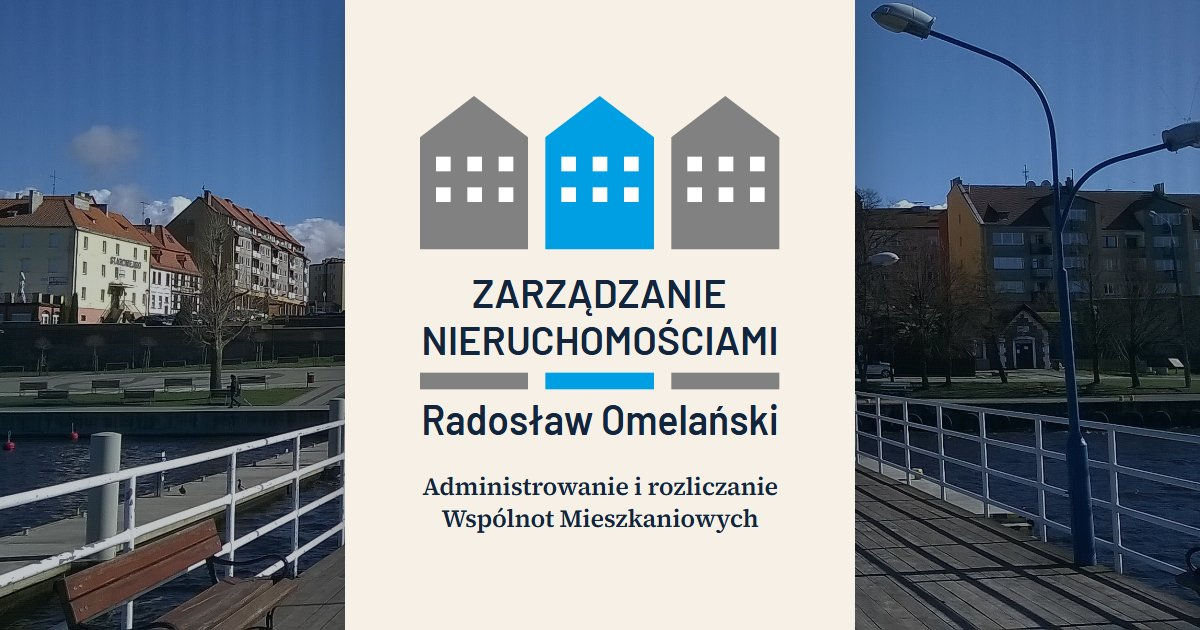
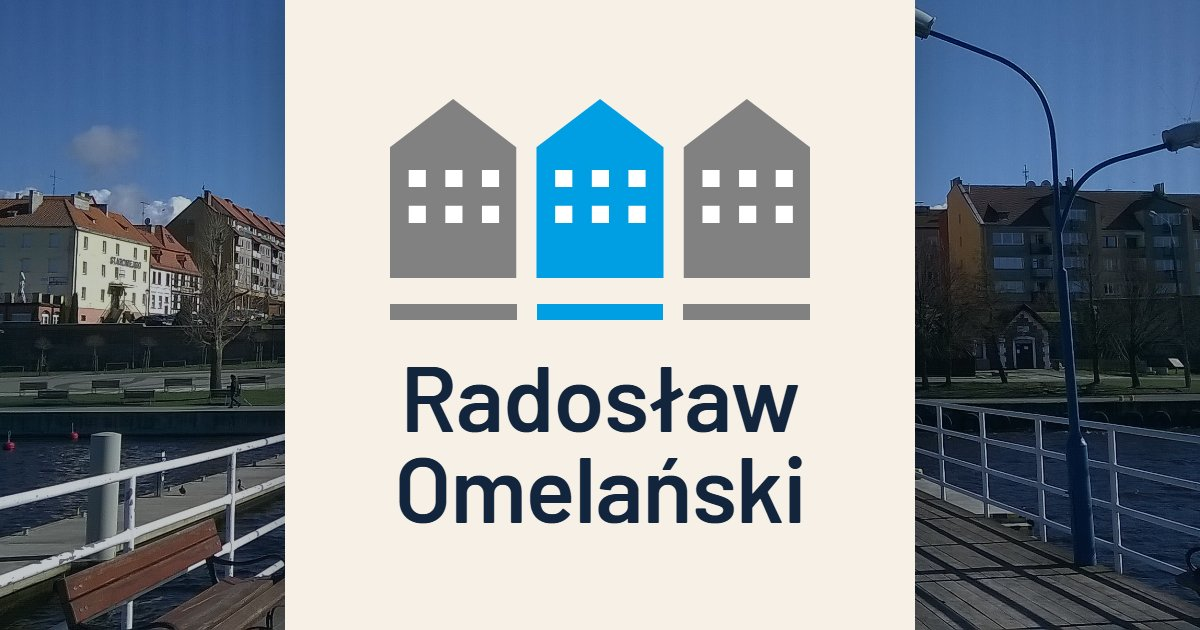
Readable name in the link preview image, livelier header link hovers

Changed region(s): [[0.2158, 0.0, 0.6783, 1.0], [0.7092, 0.0, 0.7708, 1.0], [0.4625, 0.1508, 0.5242, 0.2111]]

diff --git a/tests/e2e/seo.spec.ts b/tests/e2e/seo.spec.ts
@@ -47,7 +47,7 @@ for (const route of ROUTES) {
     await expect(page.locator('link[rel="canonical"]')).toHaveAttribute('href', canonical);
     await expect(page.locator('meta[property="og:url"]')).toHaveAttribute('content', canonical);
     await expect(page.locator('meta[name="description"]')).toHaveAttribute('content', /.{50,}/);
-    await expect(page.locator('meta[property="og:image"]')).toHaveAttribute('content', 'https://omelanski.pl/og.jpg?v=2');
+    await expect(page.locator('meta[property="og:image"]')).toHaveAttribute('content', 'https://omelanski.pl/og.jpg');
     await expect(page.locator('meta[property="og:image:type"]')).toHaveAttribute('content', 'image/jpeg');
     await expect(page.locator('meta[property="og:image:alt"]')).toHaveAttribute('content', /.+/);
     const blocks = await page.locator('script[type="application/ld+json"]').allTextContents();
